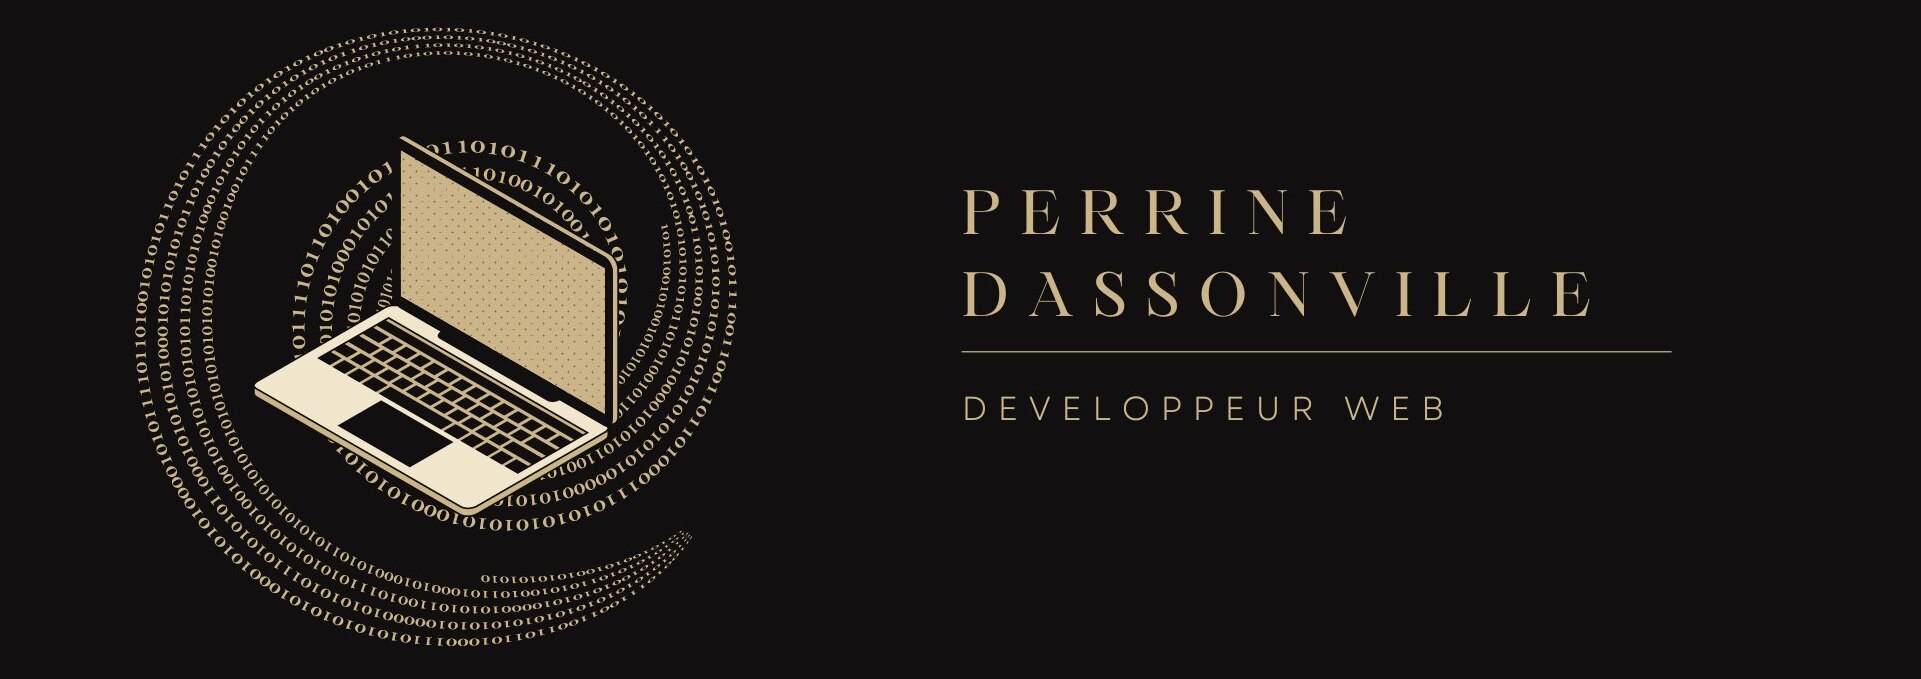
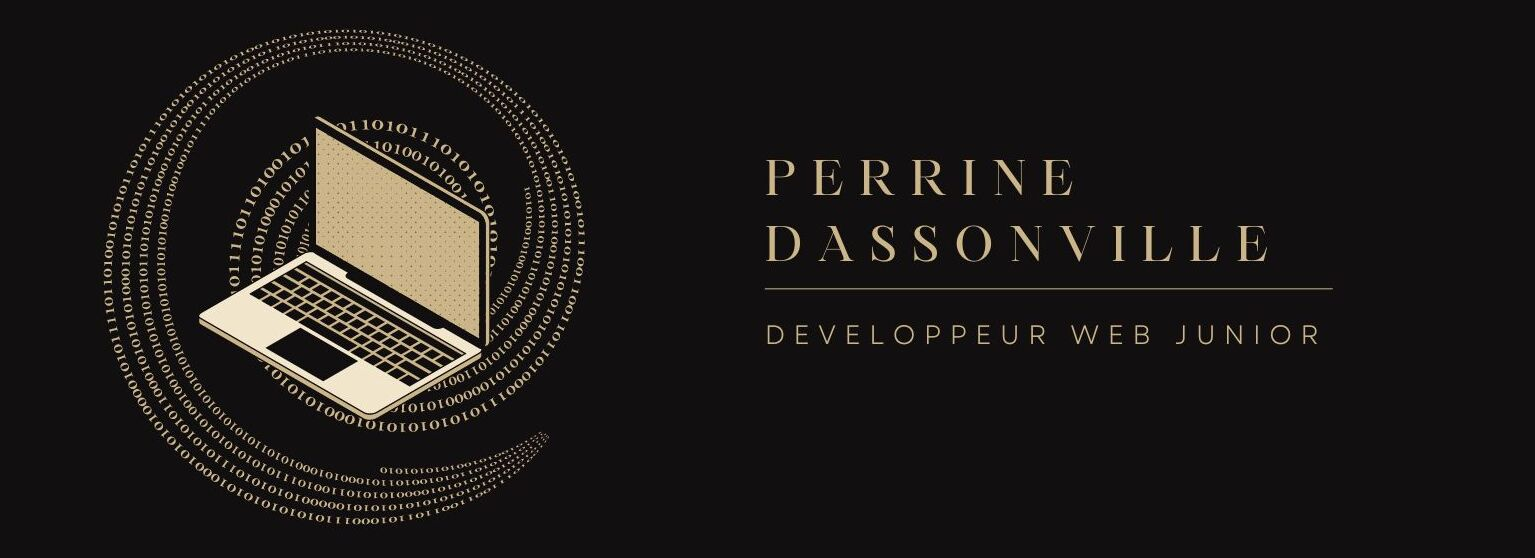
maj

diff --git a/README.md b/README.md
@@ -25,7 +25,7 @@ Here are some ideas to get you started:
 <br>
 
 <p align="center"> 
-  <em>Je suis actuellement développeur web. J'espère me spécialiser dans le backend pour l'instant. J'aime aussi le frontend donc mon objectif ultime serait de pouvoir être fullstack.</em>
+  <em>Je suis actuellement développeur web junior. J'espère me spécialiser dans le backend pour l'instant. J'aime aussi le frontend donc mon objectif ultime serait de pouvoir être fullstack.</em>
 </p>
 
 <br>
